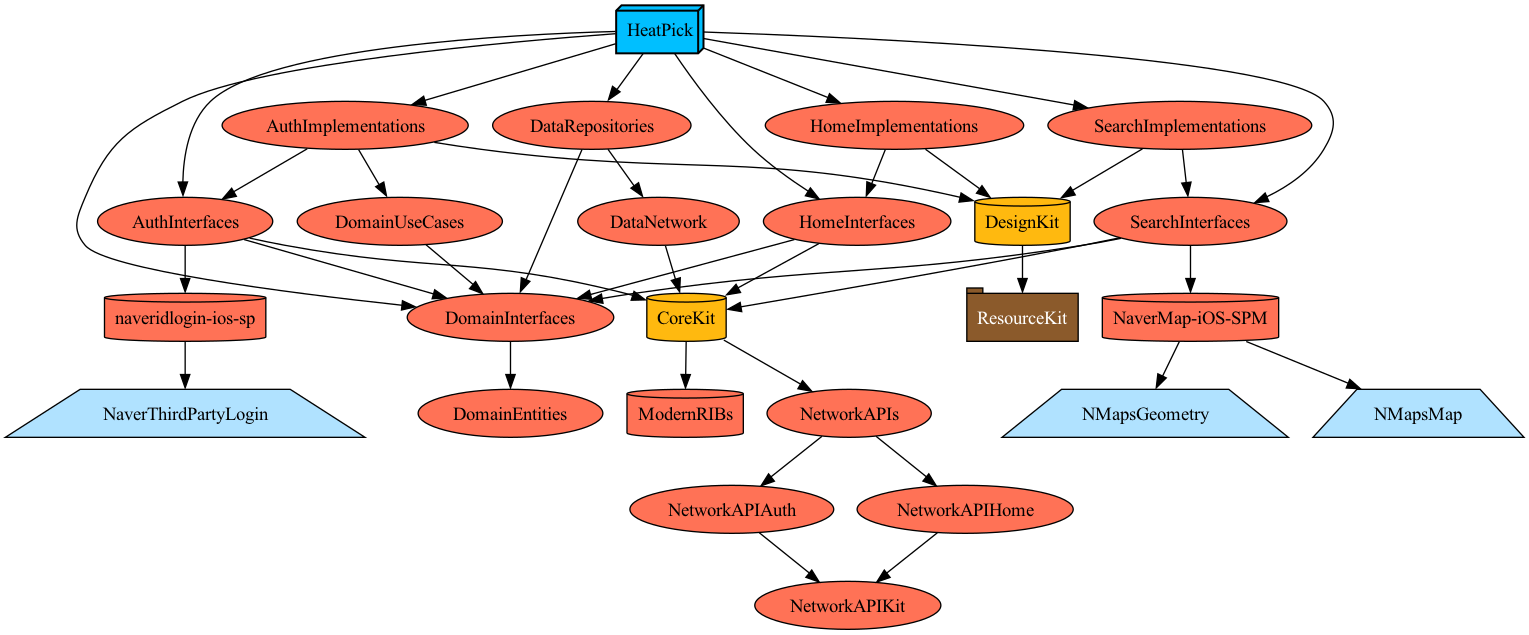
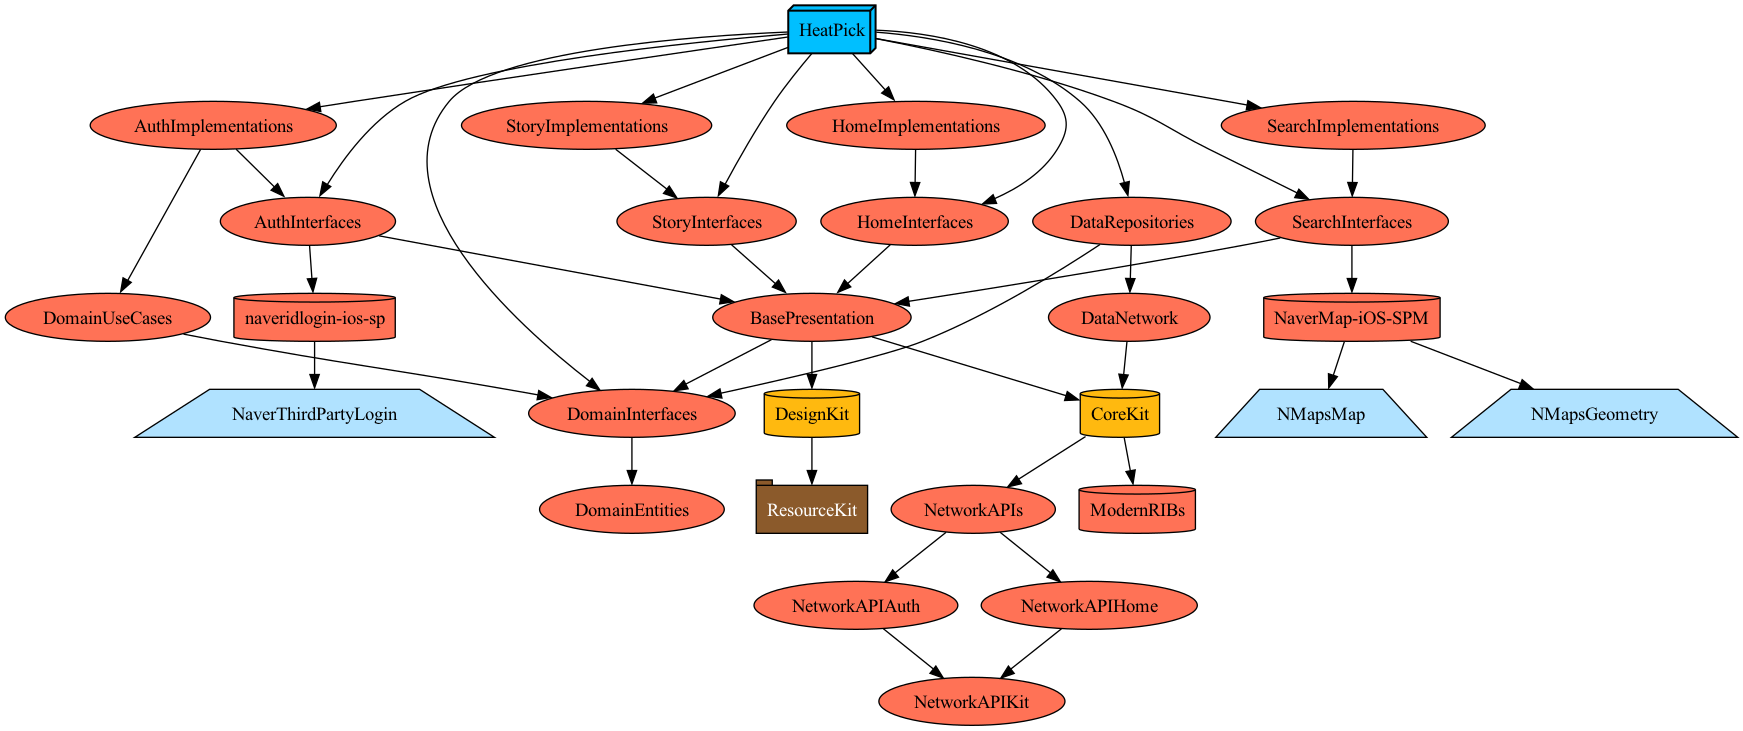
package: BasePresentation 추가

diff --git a/client/Plugins/UtilityPlugin/ProjectDescriptionHelpers/Dependency+Presentation.swift b/client/Plugins/UtilityPlugin/ProjectDescriptionHelpers/Dependency+Presentation.swift
@@ -8,6 +8,13 @@
 import Foundation
 import ProjectDescription
 
+public extension TargetDependency.Target.Presentation.BasePresentation {
+    static let project: TargetDependency = .project(
+        target: "BasePresentation",
+        path: .relativeToRoot("Targets/Presentation/BasePresentation")
+    )
+}
+
 public extension TargetDependency.Target.Presentation.Home {
     static let group = "Home"
     static func project(name: String) -> TargetDependency {

diff --git a/client/Targets/Presentation/BasePresentation/Project.swift b/client/Targets/Presentation/BasePresentation/Project.swift
@@ -3,9 +3,11 @@ import ProjectDescriptionHelpers
 import UtilityPlugin
 
 let project = Project.framework(
-    name: "HomeInterfaces",
+    name: "BasePresentation",
     featureTargets: [.staticLibrary],
     dependencies: [
-        .Target.Presentation.BasePresentation.project,
+        .Target.DesignSystem.DesignKit,
+        .Target.Core.CoreKit,
+        .Target.Domain.Interfaces,
     ]
 )

diff --git a/client/Targets/Presentation/Auth/Interfaces/Project.swift b/client/Targets/Presentation/Auth/Interfaces/Project.swift
@@ -6,8 +6,7 @@ let project = Project.framework(
     name: "AuthInterfaces",
     featureTargets: [.staticLibrary],
     dependencies: [
-        .Target.Core.CoreKit,
-        .Target.Domain.Interfaces,
+        .Target.Presentation.BasePresentation.project,
         .SPM.NaverLogin
     ]
 )

diff --git a/client/Targets/Presentation/Search/Interfaces/Project.swift b/client/Targets/Presentation/Search/Interfaces/Project.swift
@@ -6,8 +6,7 @@ let project = Project.framework(
     name: "SearchInterfaces",
     featureTargets: [.staticLibrary],
     dependencies: [
-        .Target.Core.CoreKit,
-        .Target.Domain.Interfaces,
+        .Target.Presentation.BasePresentation.project,
         .SPM.NaverMap
     ]
 )

diff --git a/client/Plugins/UtilityPlugin/ProjectDescriptionHelpers/Dependency+Project.swift b/client/Plugins/UtilityPlugin/ProjectDescriptionHelpers/Dependency+Project.swift
@@ -15,6 +15,7 @@ extension TargetDependency {
         public struct Data {}
         
         public struct Presentation {
+            public struct BasePresentation {}
             public struct Home {}
             public struct Auth {}
             public struct Story {}

diff --git a/client/Targets/Presentation/Story/Interfaces/Project.swift b/client/Targets/Presentation/Story/Interfaces/Project.swift
@@ -6,7 +6,6 @@ let project = Project.framework(
     name: "StoryInterfaces",
     featureTargets: [.staticLibrary],
     dependencies: [
-        .Target.Core.CoreKit,
-        .Target.Domain.Interfaces,
+        .Target.Presentation.BasePresentation.project,
     ]
 )

diff --git a/client/Targets/Presentation/Auth/Implementations/Project.swift b/client/Targets/Presentation/Auth/Implementations/Project.swift
@@ -6,7 +6,6 @@ let project = Project.framework(
     name: "AuthImplementations",
     featureTargets: [.staticLibrary],
     dependencies: [
-        .Target.DesignSystem.DesignKit,
         .Target.Presentation.Auth.Interfaces,
         .Target.Domain.UseCases
     ]

diff --git a/client/Targets/Presentation/Search/Implementations/Project.swift b/client/Targets/Presentation/Search/Implementations/Project.swift
@@ -6,7 +6,6 @@ let project = Project.framework(
     name: "SearchImplementations",
     featureTargets: [.staticLibrary],
     dependencies: [
-        .Target.DesignSystem.DesignKit,
         .Target.Presentation.Search.Interfaces,
     ]
 )

diff --git a/client/Targets/Presentation/Story/Implementations/Project.swift b/client/Targets/Presentation/Story/Implementations/Project.swift
@@ -6,7 +6,6 @@ let project = Project.framework(
     name: "StoryImplementations",
     featureTargets: [.staticLibrary],
     dependencies: [
-        .Target.DesignSystem.DesignKit,
         .Target.Presentation.Story.Interfaces,
     ]
 )

diff --git a/client/Targets/Presentation/Home/Implementations/Project.swift b/client/Targets/Presentation/Home/Implementations/Project.swift
@@ -6,7 +6,6 @@ let project = Project.framework(
     name: "HomeImplementations",
     featureTargets: [.staticLibrary],
     dependencies: [
-        .Target.DesignSystem.DesignKit,
         .Target.Presentation.Home.Interfaces,
     ]
 )

diff --git a/client/Targets/Presentation/BasePresentation/Sources/dummy.swift b/client/Targets/Presentation/BasePresentation/Sources/dummy.swift
@@ -1,0 +1,1 @@
+// dummy
